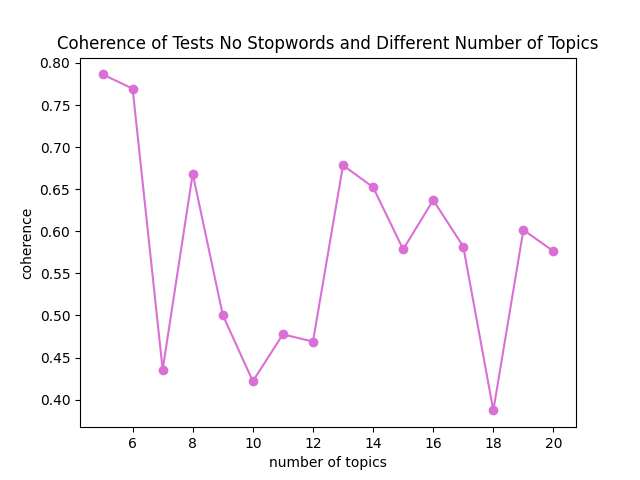
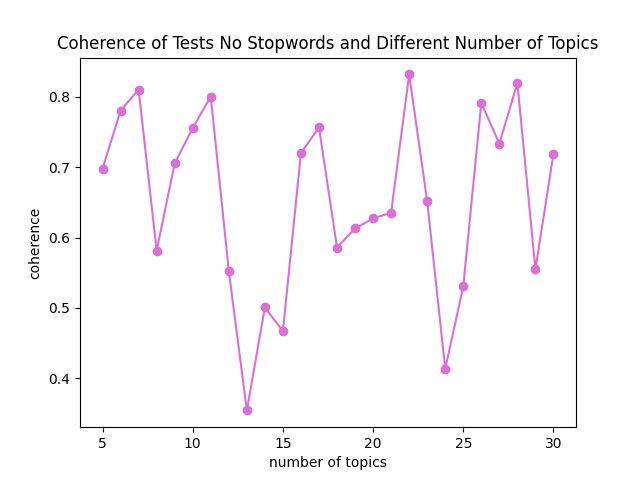
update charts AGAIN

diff --git a/src/CoherenceTestIworStopwordsTypicalDocument.py b/src/CoherenceTestIworStopwordsTypicalDocument.py
@@ -43,60 +43,25 @@ def parse(lines):
 
     return texts
 
-# for text in texts:
-    # print(text)
-
-# Here set the number of topics(to be changed if necessary)
-
-
-def lda(file_name,number_topics, texts, number_test):
+def lda(file_name,number_topics, texts):
     id2word = Dictionary(texts)
     corpus = [id2word.doc2bow(text) for text in texts]
-    # print(corpus)
-
-## Print dictionnary
-#for i in id2word:
-#    print(i, id2word[i])
-
+   
 # Train the lda model on the corpus.
     lda = LdaModel(corpus, num_topics=number_topics)
-    
-    test = {}
-    
-    # Print topic descrition
-    for i in range(0, number_topics):
-        new_topic = {}
-        value = lda.get_topic_terms(i)
-    #    print(value)
-        print("Topic ", i)
-        for j in value:
-            new_topic.update({id2word[j[0]]:str(j[1])})
-            print(id2word[j[0]], " - P=", j[1])
-        print()
-        test.update({i:new_topic.copy()})    # Compute Perplexity
-    # a measure of how good the model is (lower the better).
-    perplexity_lda = lda.log_perplexity(corpus)
-    print('Perplexity= ', perplexity_lda)
-    test.update({'perplexity':perplexity_lda})
-    # Compute Coherence Score
-    coherence_model_lda = CoherenceModel(
-        model=lda, texts=texts, dictionary=id2word, coherence='c_v')
-    coherence_lda = coherence_model_lda.get_coherence()
-    print('Coherence= ', coherence_lda)
-    test.update({'coherence':coherence_lda})    # save test
-    with open(os.getcwd() + f'/tests/{file_name}/test_{number_test}.json', 'w') as file:
-        json.dump(test, file)
-
     typical_docs = lda.get_document_topics(corpus)
-    print(list(typical_docs))
-    for topic in list(typical_docs):
+    docs_topics = {}
+    for i,topic in enumerate(list(typical_docs)):
         print(f"Topic {topic[0][0]}: {topic[0][1]}")
+        docs_topics.update({i:(topic[0][0], topic[0][1])})        
 
-# nb=10
+    with open(os.getcwd() + f'/tests/{file_name}/typical_docs.json', 'w') as file:
+        json.dump(docs_topics, file)
 
-# lines = read()
-# texts = parse(lines)
-# lda('dataset_2/no_stopwords',nb,texts,1)
+nb=10
+lines = read()
+texts = parse(lines)
+lda('dataset_1/typical_documents',nb,texts)
 
 
 

diff --git a/src/plot.py b/src/plot.py
@@ -91,3 +91,13 @@ def plot_coherence_perplexity(file_name):
 plot_coherence_perplexity('dataset_2/no_stopwords_diff_n_topics/')
 
 #plot_test('dataset_1/stopwords/test_5.json', 5, 'lightskyblue')
+
+# coherence, perplexity = read_coherence_perplexity('dataset_1/stopwords/')
+# print(f"D1 Stopwords Coherence {sum(coherence)/len(coherence)}")
+# print(f"D1 Stopwords Perplexity {sum(perplexity)/len(perplexity)}")
+# coherence, perplexity = read_coherence_perplexity('dataset_1/no_stopwords/')
+# print(f"D1 No Stopwords Coherence {sum(coherence)/len(coherence)}")
+# print(f"D1 No Stopwords Perplexity {sum(perplexity)/len(perplexity)}")
+# coherence, perplexity = read_coherence_perplexity('dataset_2/no_stopwords/')
+# print(f"D2 No Stopwords Coherence {sum(coherence)/len(coherence)}")
+# print(f"D2 No Stopwords Perplexity {sum(perplexity)/len(perplexity)}")

diff --git a/src/CoherenceTestIworStopwords.py b/src/CoherenceTestIworStopwords.py
@@ -15,7 +15,7 @@ nltk.download('stopwords')
 
 def read():
     
-    file = open(os.getcwd() + '/src/TokenVieuxM.txt', "r")
+    file = open(os.getcwd() + '/src/TokenVieuxN.txt', "r")
     lines = file.readlines()
     file.close()
 
@@ -88,8 +88,8 @@ def lda(file_name,number_topics, texts, number_test):
         json.dump(test, file)
 
 
-for i in range(5,21):
+for i in range(5,31):
     lines = read()
     texts = parse(lines)
-    lda('dataset_1/no_stopwords_diff_n_topics',i,texts,i)
+    lda('dataset_2/no_stopwords_diff_n_topics',i,texts,i)
     
